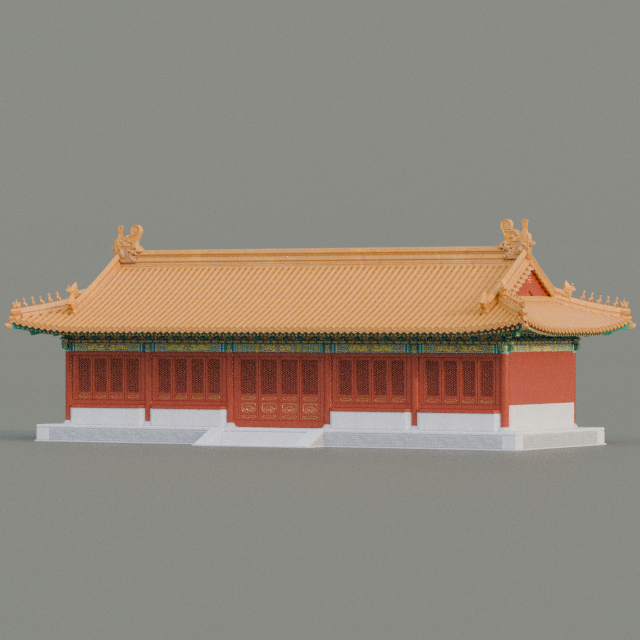
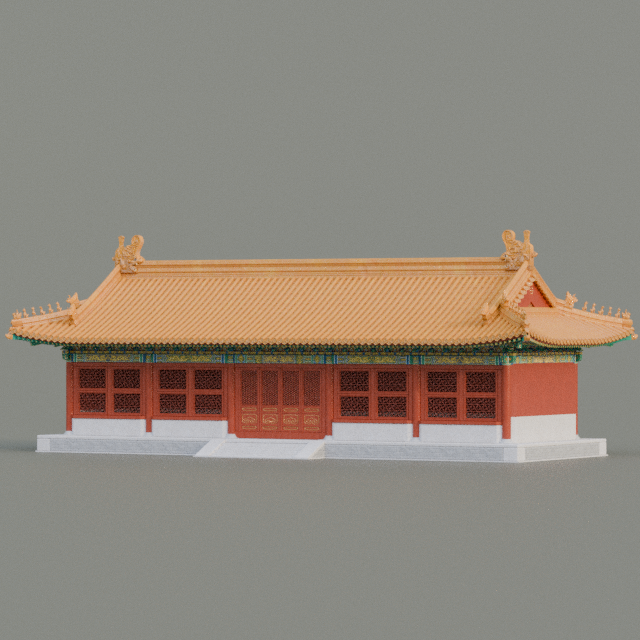
bugfix：墙体走马板异常，更新模板测试中的问题，在模板中应用支摘窗和直棂窗。

Changed region(s): [[0.0, 0.3438, 1.0, 0.75]]

diff --git a/buildWall.py b/buildWall.py
@@ -190,10 +190,11 @@ def __drawWall(wallProxy:bpy.types.Object):
     wallDeepth = con.WALL_DEPTH * bData.piller_diameter
     # 退花碱厚度
     bodyShrink = con.WALL_SHRINK
+    # 预留走马板高度
+    if bData.wall_span > 0:
+        wallHeight -= bData.wall_span
 
     wallParts = []
-
-    
 
     # 1、创建下碱对象
     # 下碱一般取墙体高度的1/3
